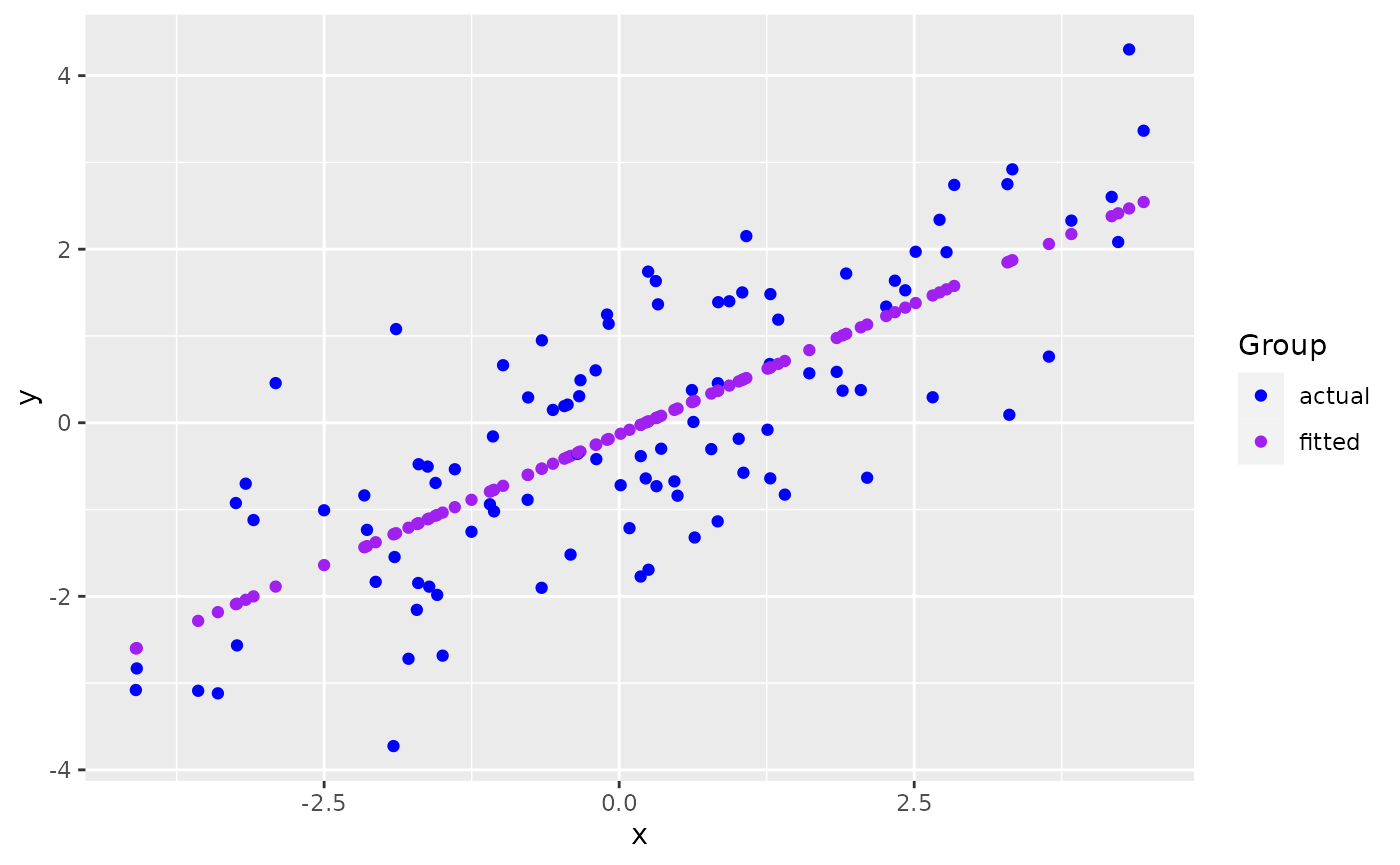
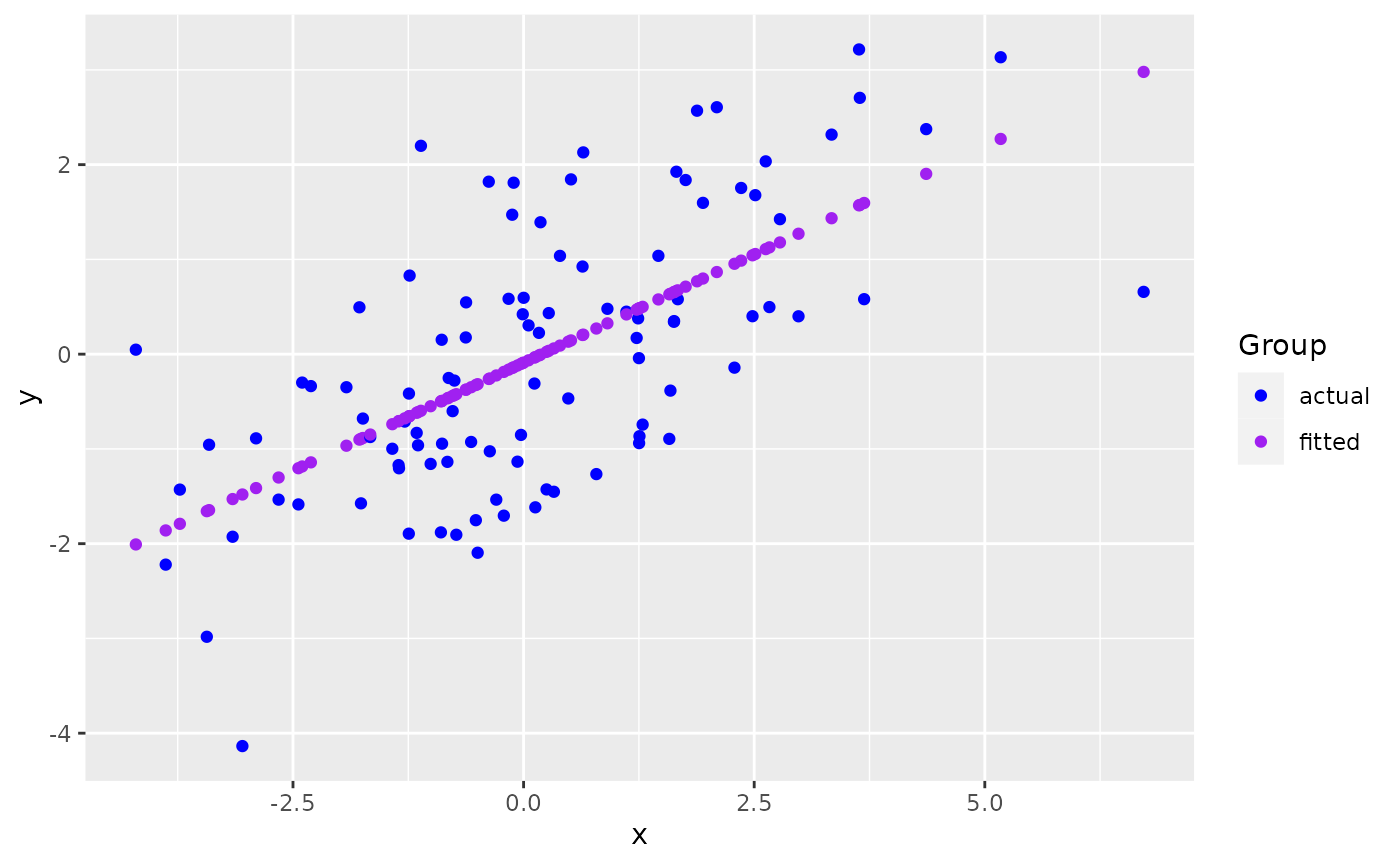
Built site for ggmatplot: 0.1.1@436bbe5

diff --git a/articles/ggmatplot.html b/articles/ggmatplot.html
@@ -103,7 +103,7 @@
 <span class="va">x</span> <span class="op">&lt;-</span> <span class="fu"><a href="https://rdrr.io/r/base/c.html" class="external-link">c</a></span><span class="op">(</span><span class="fu"><a href="https://rdrr.io/r/stats/Normal.html" class="external-link">rnorm</a></span><span class="op">(</span><span class="fl">100</span>, sd <span class="op">=</span> <span class="fl">2</span><span class="op">)</span><span class="op">)</span>
 
 <span class="fu"><a href="https://rdrr.io/r/utils/head.html" class="external-link">head</a></span><span class="op">(</span><span class="va">x</span><span class="op">)</span>
-<span class="co">#&gt; [1]  0.2250911  1.0127281  0.6164705 -3.5674441  0.3556864 -1.0696147</span>
+<span class="co">#&gt; [1]  1.6563606  1.5919020 -1.1591023 -0.1628230 -1.2444578  0.5138979</span>
 
 <span class="co"># matrix z</span>
 <span class="va">y</span> <span class="op">&lt;-</span> <span class="va">x</span> <span class="op">*</span> <span class="fl">0.5</span> <span class="op">+</span> <span class="fu"><a href="https://rdrr.io/r/stats/Normal.html" class="external-link">rnorm</a></span><span class="op">(</span><span class="fl">100</span>, sd <span class="op">=</span> <span class="fl">1</span><span class="op">)</span>
@@ -112,13 +112,13 @@
            fitted <span class="op">=</span> <span class="va">fit.y</span><span class="op">)</span>
 
 <span class="fu"><a href="https://rdrr.io/r/utils/head.html" class="external-link">head</a></span><span class="op">(</span><span class="va">z</span><span class="op">)</span>
-<span class="co">#&gt;       actual       fitted</span>
-<span class="co">#&gt; 1 -0.6419010  0.001748272</span>
-<span class="co">#&gt; 2 -0.1846874  0.476306688</span>
-<span class="co">#&gt; 3  0.3766570  0.237557926</span>
-<span class="co">#&gt; 4 -3.0885697 -2.283288533</span>
-<span class="co">#&gt; 5 -0.2992523  0.080433114</span>
-<span class="co">#&gt; 6 -0.1575941 -0.778323699</span></code></pre></div>
+<span class="co">#&gt;       actual     fitted</span>
+<span class="co">#&gt; 1  1.9252570  0.6665475</span>
+<span class="co">#&gt; 2 -0.3847255  0.6371262</span>
+<span class="co">#&gt; 3 -0.8308232 -0.6185362</span>
+<span class="co">#&gt; 4  0.5841756 -0.1637967</span>
+<span class="co">#&gt; 5 -1.8944451 -0.6574957</span>
+<span class="co">#&gt; 6  1.8443846  0.1450843</span></code></pre></div>
 <p><code>ggmatplot</code> plots vector <code>x</code> against each column of matrix <code>z</code> using the default <code>plot_type = "point"</code>. This will be represented on the resulting plot as two groups, identified using different shapes and colors.</p>
 <div class="sourceCode" id="cb2"><pre class="downlit sourceCode r">
 <code class="sourceCode R"><span class="kw"><a href="https://rdrr.io/r/base/library.html" class="external-link">library</a></span><span class="op">(</span><span class="va"><a href="https://github.com/xuan-liang/ggmatplot" class="external-link">ggmatplot</a></span><span class="op">)</span>
